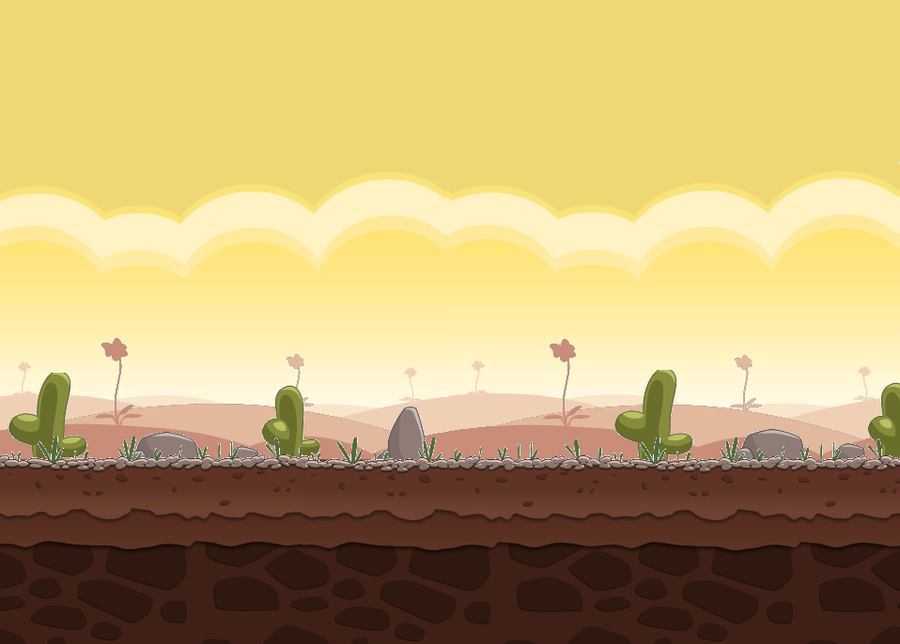
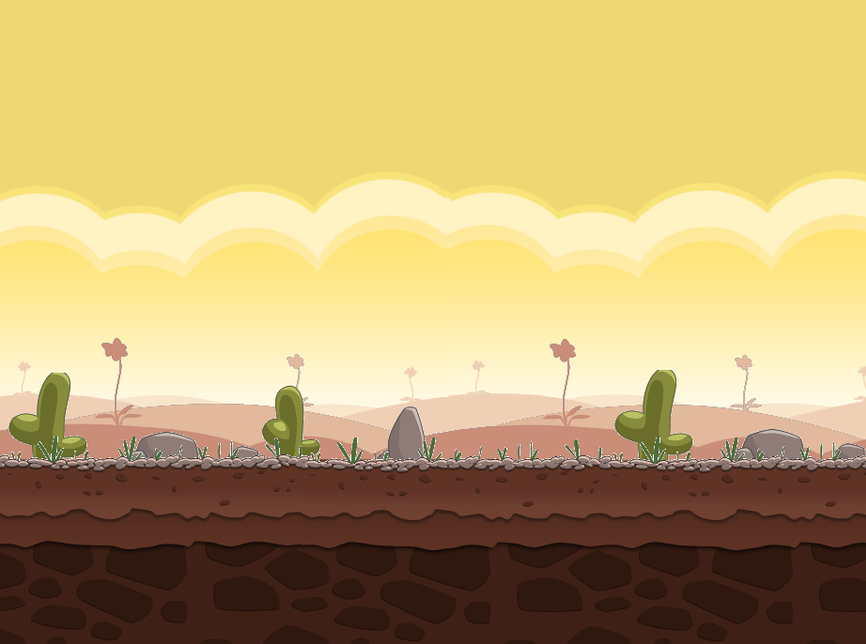
Konami added in: residual stability carried on

diff --git a/src/GameScreen.java b/src/GameScreen.java
@@ -3,7 +3,6 @@ import java.awt.Font;
 import java.awt.Graphics2D;
 import java.awt.Rectangle;
 import java.util.ArrayList;
-import java.util.Collection;
 import java.util.Iterator;
 import java.util.TreeSet;
 
@@ -24,7 +23,7 @@ public class GameScreen implements Screen{
 	private int livesx;
 	private boolean alive;
 	private Player player;
-	private TreeSet<Obstacles> obstacles;
+	private TreeSet<Enemies> enemies;
 	private ArrayList<AIBoss> boss;
 	private ArrayList<Missiles> weapons;
 
@@ -44,35 +43,35 @@ public class GameScreen implements Screen{
 		score = 0;
 		lives = 3;
 		livesx = lives;
-		obstacles = new TreeSet<Obstacles>();
+		enemies = new TreeSet<Enemies>();
 		weapons = new ArrayList<Missiles>();
 		boss = new ArrayList<AIBoss>();
 		alive = true;
 		player = new Player("player.gif");
-		addObstacles();
+		addEnemies();
 	}
 
 	public void update() {
 		if(alive){
 			if(lives > 0) {
 				player.move();
-				if(bgspeed > -8.0) 
-					bgspeed = -8.0;
+				if(bgspeed > -6.0) 
+					bgspeed = -6.0;
 				else
 					this.bgspeed -= 0.1;
 				bg.setSpeed(bgspeed, 0);
 
 				score = Math.round(score + 0.5);
 
-				Iterator<Obstacles> iter = obstacles.iterator();
+				Iterator<Enemies> iter = enemies.iterator();
 				while(iter.hasNext()) {
-					Obstacles o = iter.next();
+					Enemies o = iter.next();
 					if (o.isActive())
 						o.move();
 					else
 						o.kill();
 					if(o.getY() > MainPanel.HEIGHT)
-						obstacles.remove(o);
+						enemies.remove(o);
 				}
 
 				weapons = player.getMissiles();
@@ -100,7 +99,7 @@ public class GameScreen implements Screen{
 			}
 		}else if(!alive){
 			if(bgspeed < 0) 
-				bgspeed += 1.5;
+				bgspeed += 2.0;
 			else 
 				bgspeed = 0;
 			bg.setSpeed(bgspeed,0);
@@ -112,12 +111,12 @@ public class GameScreen implements Screen{
 
 		if(score % (int) (100*Math.random() + 20) == 0) {
 			//add enemies at a random time, position and speed
-			addObstacles();
+			addEnemies();
 		}
 	}
 
-	public void addObstacles() {
-		obstacles.add(new Obstacles(
+	public void addEnemies() {
+		enemies.add(new Enemies(
 				MainPanel.WIDTH + 35, 
 				(int) ((MainPanel.HEIGHT - 300)*Math.random()), 
 				(int) (10 * Math.random()) + 10, 
@@ -130,9 +129,9 @@ public class GameScreen implements Screen{
 
 	public void checkCollisions() {
 		Rectangle playerbound = player.getBounds();
-		Iterator<Obstacles> iter = obstacles.iterator();
+		Iterator<Enemies> iter = enemies.iterator();
 		while(iter.hasNext()) {
-			Obstacles o = iter.next();
+			Enemies o = iter.next();
 			if(o.isActive()){
 				Rectangle obstaclebound = o.getBounds();
 
@@ -153,9 +152,9 @@ public class GameScreen implements Screen{
 
 			Rectangle r1 = m.getBounds();
 
-			Iterator<Obstacles> iter2 = obstacles.iterator();
+			Iterator<Enemies> iter2 = enemies.iterator();
 			while(iter2.hasNext()) {
-				Obstacles a = iter2.next();
+				Enemies a = iter2.next();
 				Rectangle r2 = a.getBounds();
 
 				if (r1.intersects(r2)) {
@@ -185,19 +184,20 @@ public class GameScreen implements Screen{
 		bg.draw(g);
 
 		if(alive) {
-			g.setFont(new Font("Helvetica",Font.PLAIN,25));
-			g.setColor(new Color(255,255,255));
-			g.drawString("Score: "+score, 30, 30);
-			g.drawString("Missiles left: "+ player.getNumWeapons(), 700, 30);
+			g.setFont(new Font("Helvetica",Font.BOLD,25));
+			g.setColor(new Color(100, 100, 100));
+			g.drawString("Score: "+score, 20, 30);
+			g.drawString("Missiles left: "+ player.getNumWeapons(), 660, 30);
 			if(lives != livesx) {
 				g.setColor(new Color(255,100,0));
 			}else{
 				g.setColor(new Color(255,255,255));
 			}
-			g.drawString("Lives left: " + lives, 30, 60);
+			g.drawString("Lives left: " + lives, 20, 60);
 		}else{
 			g.setColor(new Color(100, 100, 100));
 			g.setFont(new Font("Helvetica", Font.BOLD, 72));
+			g.drawString("SCORE "+score, 300, 400);
 			g.drawString("Game Over!", 238, 272);
 			g.setFont(new Font("Helvetica", Font.PLAIN, 36));
 			g.drawString("Press 'Q' to go back to the main menu", 158, 342);
@@ -211,15 +211,14 @@ public class GameScreen implements Screen{
 		//draw the player
 		g.drawImage(player.getImage(), player.getX(), player.getY(), null);
 
-		//if(boss != null) {
 		for(int i = 0; i<boss.size(); i++) {
 			g.drawImage(boss.get(i).getImage(), boss.get(i).getX(), boss.get(i).getY(), null);
-			obstacles.clear();
+			enemies.clear();
 		}
 		//draw the obstacles
-		Iterator<Obstacles> iter = obstacles.iterator();
+		Iterator<Enemies> iter = enemies.iterator();
 		while(iter.hasNext()){
-			Obstacles o = iter.next();
+			Enemies o = iter.next();
 			g.drawImage(o.getImage(), o.getX(), o.getY(), null);
 		}
 		//draw missiles

diff --git a/src/Enemies.java b/src/Enemies.java
@@ -4,7 +4,7 @@ import java.awt.Rectangle;
 import javax.swing.ImageIcon;
 
 
-public class Obstacles implements Comparable {
+public class Enemies implements Comparable<Enemies> {
 
 	private String path;
 	private int x;
@@ -15,7 +15,7 @@ public class Obstacles implements Comparable {
 	private int speed;
 	private Image image;
 
-	public Obstacles (int x, int y, int speed, String location) {
+	public Enemies (int x, int y, int speed, String location) {
 		this.path = location;
 		ImageIcon ii = new ImageIcon(this.getClass().getResource(path));
 		image = ii.getImage();
@@ -64,7 +64,7 @@ public class Obstacles implements Comparable {
 		return new Rectangle(x, y, width, height);
 	}
 
-	public int compareTo(Object o) {
+	public int compareTo(Enemies e) {
 		// TODO Auto-generated method stub
 		return 0;
 	}

diff --git a/src/Player.java b/src/Player.java
@@ -19,6 +19,7 @@ public class Player {
 	private Image image;
 	private boolean fired;
 	private ArrayList<Missiles> weapons;
+	private Konami check;
 
 	public Player (String location) {
 		this.path = location;
@@ -31,6 +32,7 @@ public class Player {
 		visible = true;
 		x = 30;
 		y = 390;
+		check = new Konami();
 	}
 
 
@@ -108,9 +110,6 @@ public class Player {
 		if (key == KeyEvent.VK_LEFT) {
 			dx = -7;
 		}
-		if(key == KeyEvent.VK_7) {
-			setNumWeapons(10000000);
-		}
 		if (key == KeyEvent.VK_RIGHT) {
 			dx = 7;
 		}
@@ -119,6 +118,11 @@ public class Player {
 		}
 		if (key == KeyEvent.VK_DOWN) {
 			dy = +8;
+		}
+		
+		//Konami cheat code:
+		if(check.wasItKonami(e.getKeyCode())) {
+			setNumWeapons(1000000);
 		}
 	}
 

diff --git a/src/ScreenManager.java b/src/ScreenManager.java
@@ -1,13 +1,11 @@
-
 import java.awt.Graphics2D;
 import java.awt.event.KeyEvent;
 import java.util.ArrayList;
-import java.util.LinkedList;
 
 public class ScreenManager {
 
 	//store the possible screens as a iterable list
-	private LinkedList<Screen> screens;
+	private ArrayList<Screen> screens;
 	private int current;
 	
 	int STARTSCREEN = 0;
@@ -17,7 +15,7 @@ public class ScreenManager {
 	
 	public ScreenManager() {
 		
-		screens = new LinkedList<Screen>();
+		screens = new ArrayList<Screen>();
 		current = STARTSCREEN;
 		screens.add(new StartScreen(this));
 		screens.add(new GameScreen(this));

diff --git a/src/Konami.java b/src/Konami.java
@@ -1,0 +1,27 @@
+public class Konami {
+	
+	int[] konami = {38, 38, 40, 40, 37, 39, 37, 39, 66, 65};
+	int latestkeypress = 0;
+	
+	/**
+	 * Checks if the key is part of a running sequence of characters - namely
+	 * the Konami code: UP, UP, DOWN, DOWN, LEFT, RIGHT, LEFT, RIGHT, B, A
+	 * @param keyPressed
+	 * @return
+	 */
+	boolean wasItKonami(int keyPressed) {
+		if(keyPressed == konami[latestkeypress]) {
+			latestkeypress++;
+
+			if(latestkeypress == konami.length) {
+				latestkeypress = 0; //reset
+				return true;
+			}
+		}
+		else {
+			latestkeypress = 0;
+		}
+
+		return false;
+	}
+}

diff --git a/src/MainPanel.java b/src/MainPanel.java
@@ -17,7 +17,7 @@ import javax.swing.JPanel;
 @SuppressWarnings("serial")
 public class MainPanel extends JPanel implements Runnable, KeyListener{
 
-	final static int WIDTH = 900;
+	final static int WIDTH = 866;
 	final static int HEIGHT = 644;
 
 	private long rate = 1000/60;

diff --git a/src/InstructionsScreen.java b/src/InstructionsScreen.java
@@ -3,7 +3,6 @@ import java.awt.Font;
 import java.awt.Graphics2D;
 import java.awt.Image;
 import java.awt.event.KeyEvent;
-import java.util.ArrayList;
 
 import javax.swing.ImageIcon;
 
